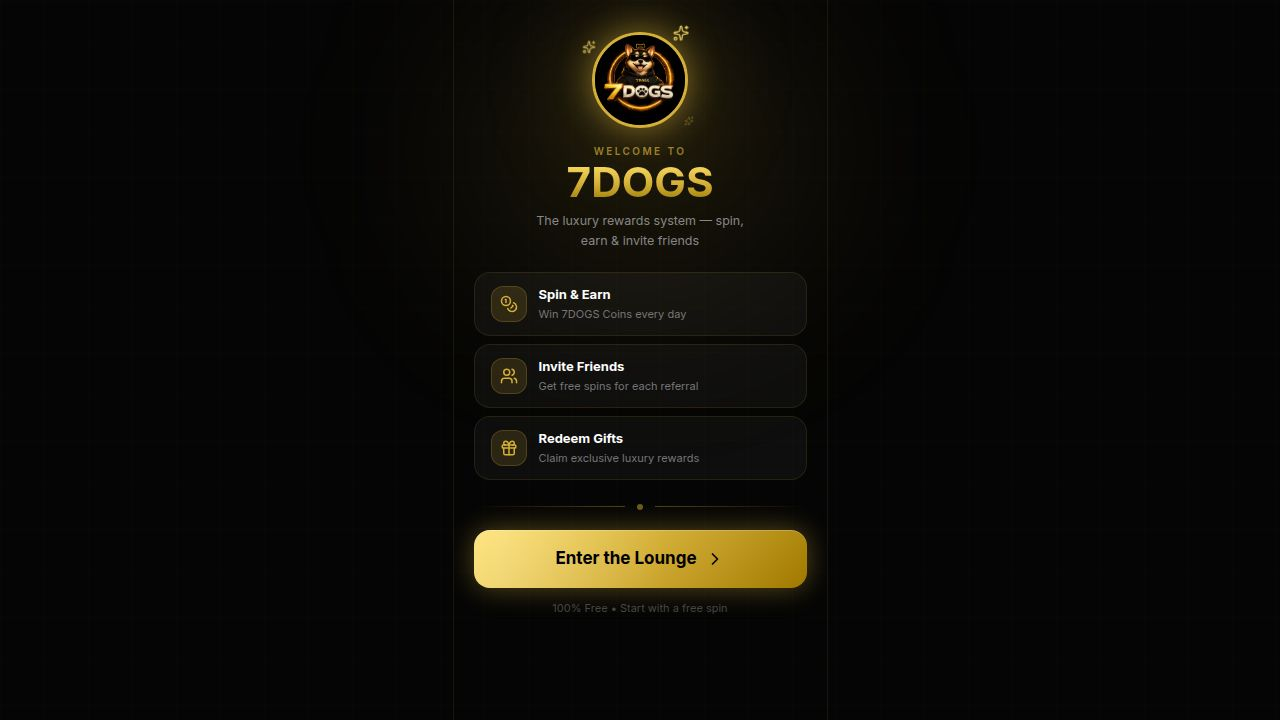
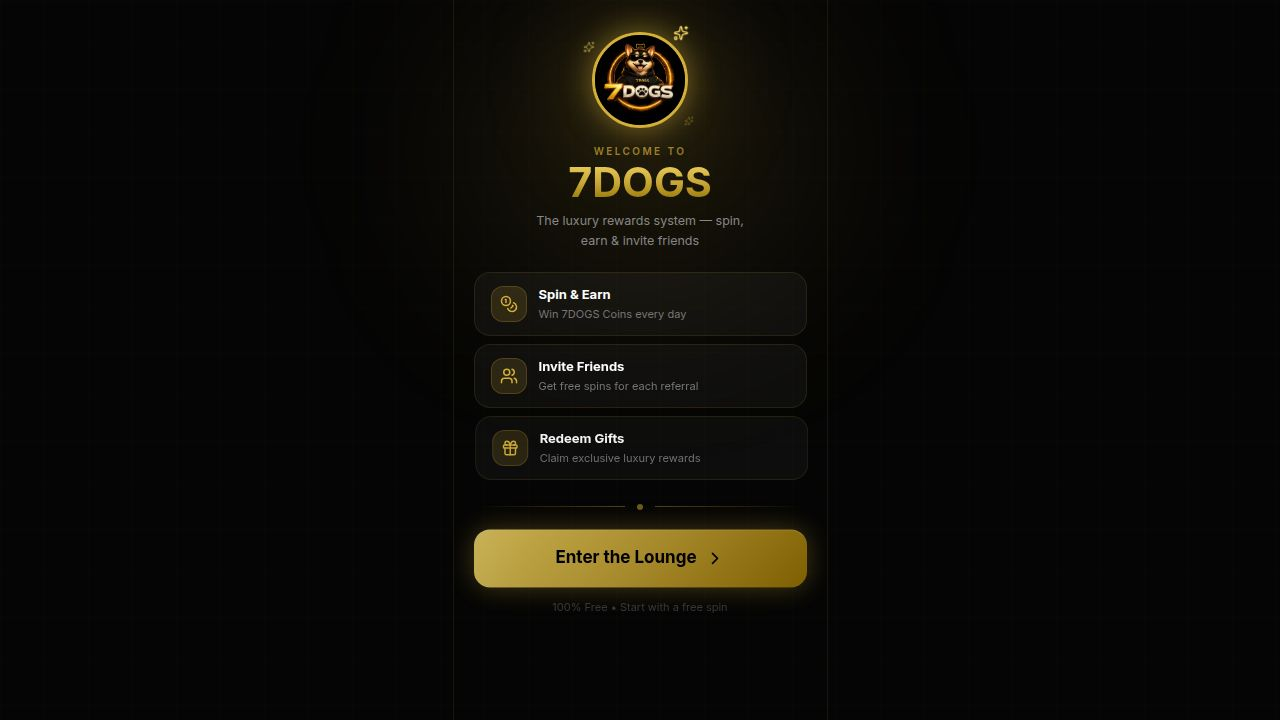
Remove tooltip and progress components and their usages
Delete src/components/ui/tooltip.tsx and src/components/ui/progress.tsx. Remove all imports and usages of these components from App.tsx, sidebar.tsx, and referrals.tsx.

Replit-Commit-Author: Agent
Replit-Commit-Session-Id: 40f95536-4c26-4346-9e8c-618c68d61527
Replit-Commit-Checkpoint-Type: full_checkpoint
Replit-Commit-Event-Id: 0a1c8204-c636-4a41-93fb-745dea34b6bf
Replit-Commit-Screenshot-Url: https://storage.googleapis.com/screenshot-production-us-central1/d7398847-a26c-4e34-babd-ffcf333693e0/40f95536-4c26-4346-9e8c-618c68d61527/vMVymQX
Replit-Helium-Checkpoint-Created: true

diff --git a/artifacts/7dogs/src/components/ui/sidebar.tsx b/artifacts/7dogs/src/components/ui/sidebar.tsx
@@ -18,12 +18,6 @@ import {
   SheetTitle,
 } from "@/components/ui/sheet"
 import { Skeleton } from "@/components/ui/skeleton"
-import {
-  Tooltip,
-  TooltipContent,
-  TooltipProvider,
-  TooltipTrigger,
-} from "@/components/ui/tooltip"
 
 const SIDEBAR_COOKIE_NAME = "sidebar_state"
 const SIDEBAR_COOKIE_MAX_AGE = 60 * 60 * 24 * 7
@@ -128,25 +122,23 @@ function SidebarProvider({
 
   return (
     <SidebarContext.Provider value={contextValue}>
-      <TooltipProvider delayDuration={0}>
-        <div
-          data-slot="sidebar-wrapper"
-          style={
-            {
-              "--sidebar-width": SIDEBAR_WIDTH,
-              "--sidebar-width-icon": SIDEBAR_WIDTH_ICON,
-              ...style,
-            } as React.CSSProperties
-          }
-          className={cn(
-            "group/sidebar-wrapper has-data-[variant=inset]:bg-sidebar flex min-h-svh w-full",
-            className
-          )}
-          {...props}
-        >
-          {children}
-        </div>
-      </TooltipProvider>
+      <div
+        data-slot="sidebar-wrapper"
+        style={
+          {
+            "--sidebar-width": SIDEBAR_WIDTH,
+            "--sidebar-width-icon": SIDEBAR_WIDTH_ICON,
+            ...style,
+          } as React.CSSProperties
+        }
+        className={cn(
+          "group/sidebar-wrapper has-data-[variant=inset]:bg-sidebar flex min-h-svh w-full",
+          className
+        )}
+        {...props}
+      >
+        {children}
+      </div>
     </SidebarContext.Provider>
   )
 }
@@ -507,42 +499,20 @@ function SidebarMenuButton({
 }: React.ComponentProps<"button"> & {
   asChild?: boolean
   isActive?: boolean
-  tooltip?: string | React.ComponentProps<typeof TooltipContent>
+  tooltip?: string | Record<string, unknown>
 } & VariantProps<typeof sidebarMenuButtonVariants>) {
   const Comp = asChild ? Slot : "button"
-  const { isMobile, state } = useSidebar()
 
-  const button = (
+  return (
     <Comp
       data-slot="sidebar-menu-button"
       data-sidebar="menu-button"
       data-size={size}
       data-active={isActive}
       className={cn(sidebarMenuButtonVariants({ variant, size }), className)}
+      title={typeof tooltip === "string" ? tooltip : undefined}
       {...props}
     />
-  )
-
-  if (!tooltip) {
-    return button
-  }
-
-  if (typeof tooltip === "string") {
-    tooltip = {
-      children: tooltip,
-    }
-  }
-
-  return (
-    <Tooltip>
-      <TooltipTrigger asChild>{button}</TooltipTrigger>
-      <TooltipContent
-        side="right"
-        align="center"
-        hidden={state !== "collapsed" || isMobile}
-        {...tooltip}
-      />
-    </Tooltip>
   )
 }
 

diff --git a/artifacts/7dogs/src/App.tsx b/artifacts/7dogs/src/App.tsx
@@ -1,7 +1,7 @@
 import { Switch, Route, Router as WouterRouter } from "wouter";
 import { QueryClient, QueryClientProvider } from "@tanstack/react-query";
 import { Toaster } from "@/components/ui/toaster";
-import { TooltipProvider } from "@/components/ui/tooltip";
+
 import { UserProvider } from "@/context/user-context";
 import { LanguageProvider } from "@/context/language-context";
 import { AppLayout } from "@/components/layout/app-layout";
@@ -41,16 +41,14 @@ function Router() {
 function App() {
   return (
     <QueryClientProvider client={queryClient}>
-      <TooltipProvider>
-        <LanguageProvider>
-          <UserProvider>
-            <WouterRouter base={import.meta.env.BASE_URL.replace(/\/$/, "")}>
-              <Router />
-            </WouterRouter>
-          </UserProvider>
-          <Toaster />
-        </LanguageProvider>
-      </TooltipProvider>
+      <LanguageProvider>
+        <UserProvider>
+          <WouterRouter base={import.meta.env.BASE_URL.replace(/\/$/, "")}>
+            <Router />
+          </WouterRouter>
+        </UserProvider>
+        <Toaster />
+      </LanguageProvider>
     </QueryClientProvider>
   );
 }

diff --git a/artifacts/7dogs/src/pages/referrals.tsx b/artifacts/7dogs/src/pages/referrals.tsx
@@ -4,7 +4,7 @@ import { useLang } from "@/context/language-context";
 import { useGetReferrals } from "@workspace/api-client-react";
 import { Button } from "@/components/ui/button";
 import { Copy, Check, Users, Link as LinkIcon, Gift } from "lucide-react";
-import { Progress } from "@/components/ui/progress";
+
 
 export default function ReferralsPage() {
   const { user } = useUser();
@@ -51,7 +51,9 @@ export default function ReferralsPage() {
           <span className="text-muted-foreground">{t.progress}</span>
           <span className="font-bold text-primary">{referrals.totalReferrals} / {referrals.referralsRequired}</span>
         </div>
-        <Progress value={progressPercentage} className="h-2 mb-4 bg-background" />
+        <div className="h-2 mb-4 w-full overflow-hidden rounded-full bg-background">
+          <div className="h-full bg-primary transition-all" style={{ width: `${progressPercentage}%` }} />
+        </div>
         <p className="text-sm text-muted-foreground">
           {t.reward}: <strong className="text-foreground">{referrals.rewardAmount} {referrals.rewardType}</strong>
         </p>